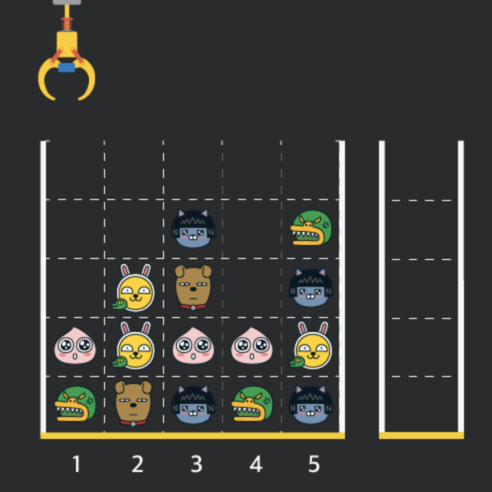
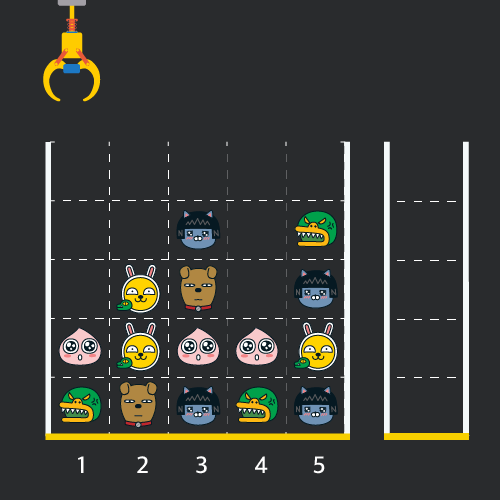
알고리즘/자료구조(Stack)/크레인인형뽑기게임

Changed region(s): [[0.061, 0.2744, 0.7012, 0.9756], [0.7622, 0.2744, 0.9451, 0.9146], [0.061, 0.0, 0.2134, 0.2134]]

diff --git a/docs/algorithm/craneClawMachineGame.md b/docs/algorithm/craneClawMachineGame.md
@@ -62,7 +62,7 @@ nav_order: 4
 인형의 처음 상태는 문제에 주어진 예시와 같습니다.   
 크레인이 [1, 5, 3, 5, 1, 2, 1, 4] 번 위치에서 차례대로 인형을 집어서 바구니에 옮겨 담은 후, 상태는 아래 그림과 같으며 바구니에 담는 과정에서 터트려져 사라진 인형은 4개 입니다.  
 
-![](/assets/images/algorithm/craneCrawlMachine4.png)
+![](/assets/images/algorithm/craneCrawlMachine4.jpg)
 
 ## 해결 코드1
 ```yaml
